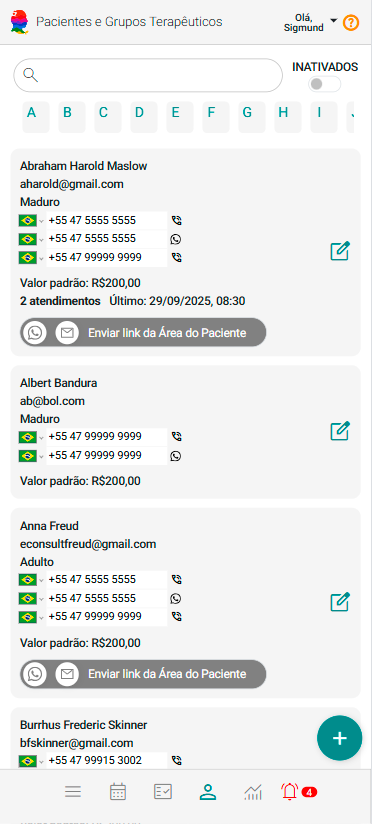
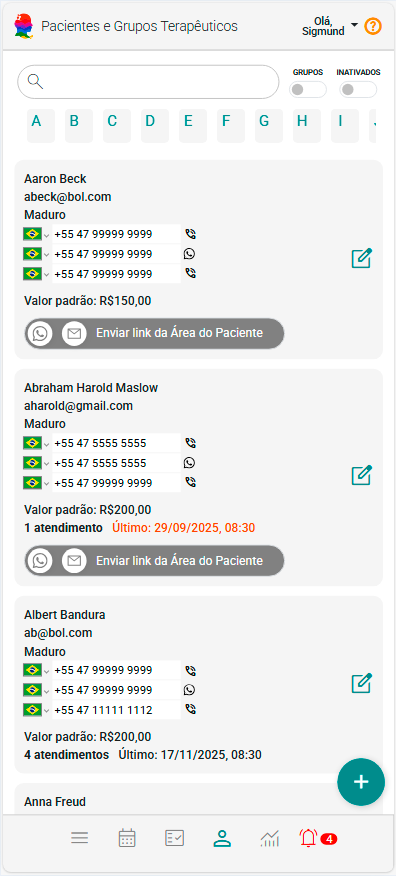
nilson

diff --git a/docs/08_funcionalidades/02-clientes-grupos/00_visao-clientes-grupos.md b/docs/08_funcionalidades/02-clientes-grupos/00_visao-clientes-grupos.md
@@ -65,9 +65,10 @@ Sendo:
 
 A lista de *cards* no painel Pacientes e Grupos do eConsult foi desenvolvida para oferecer uma navegação ágil e eficiente. Para isso, o sistema disponibiliza diversas opções de filtragem, que permitem localizar rapidamente um paciente ou grupo específico. Entre os critérios disponíveis, estão:
 
-- **Filtro por nome:** Digite parte ou o nome completo no campo de busca para encontrar o paciente ou grupo desejado.
-- **Filtro por inatividade:** É possível exibir apenas registros ativos ou inativos, facilitando a gestão de atendimentos e a revisão de cadastros.
-- **Filtro por letra inicial:** Selecione a primeira letra do nome para visualizar somente os registros que iniciam com aquele caractere.
+- **Filtro Nome:** Digite parte ou o nome completo no campo de busca para encontrar o paciente ou grupo desejado.
+- **Filtro Grupo:** É possível exibir apenas registros referentes a Grupos Terapêuticos.
+- **Filtro Inatividade:** É possível exibir apenas registros ativos ou inativos, facilitando a gestão de atendimentos e a revisão de cadastros.
+- **Filtros Letra Inicial:** Selecione a primeira letra do nome para visualizar somente os registros que iniciam com aquele caractere.
 
 Essas opções de filtragem tornam a experiência de uso mais fluida, permitindo aos profissionais localizar, acessar e gerenciar os registros com rapidez e precisão, mesmo em bases de dados com grande volume de informações.
 
